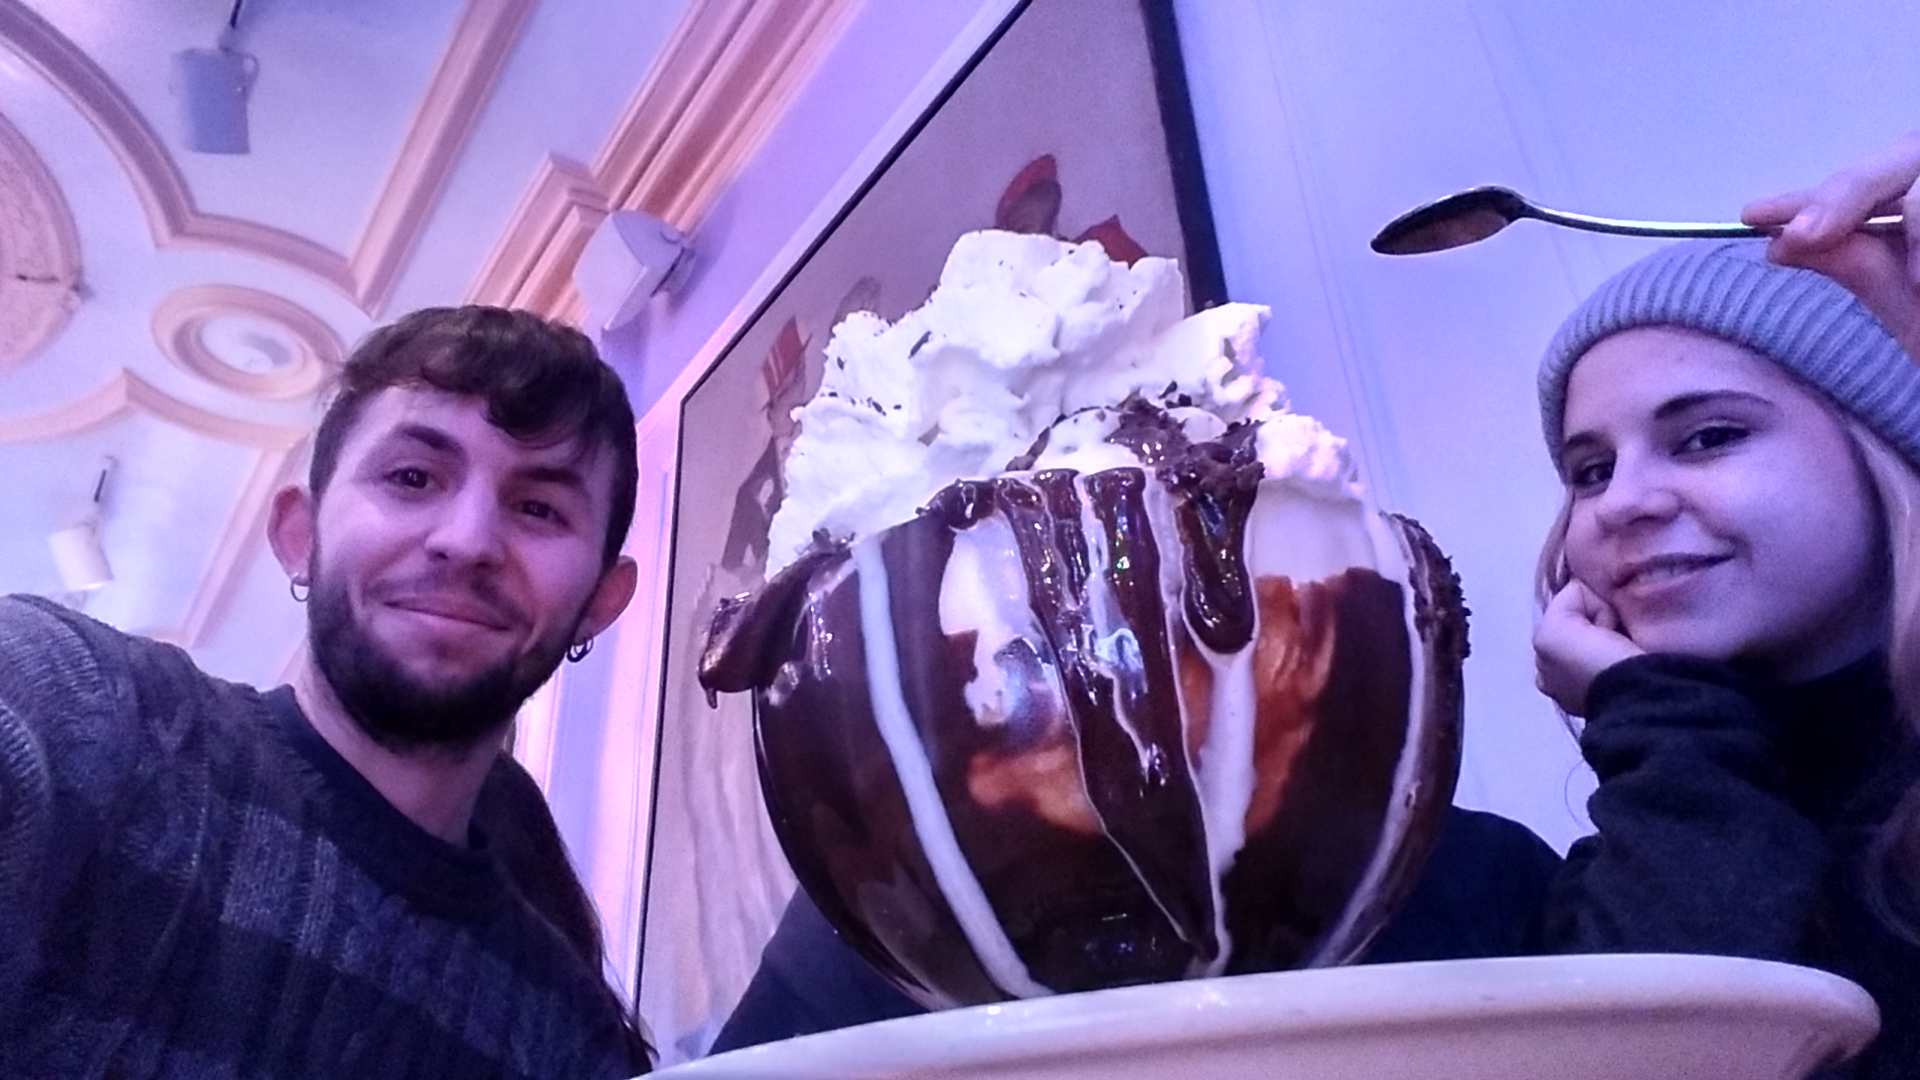
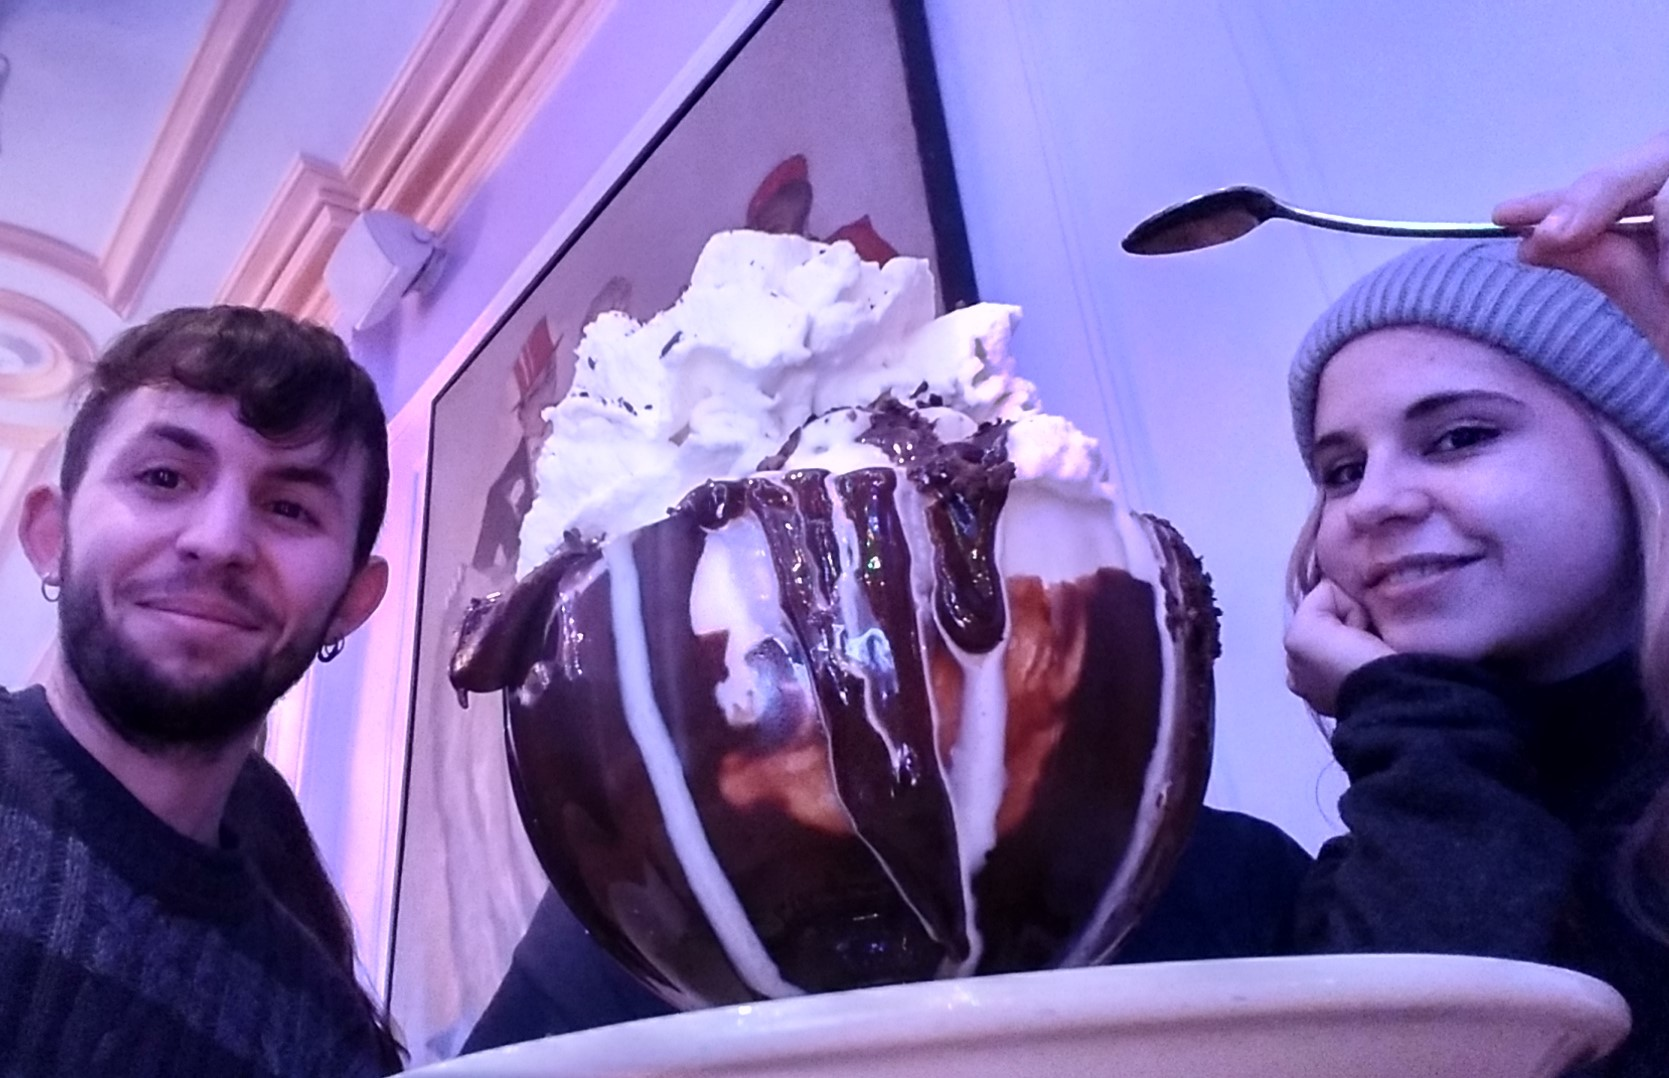
11th

diff --git a/index.html b/index.html
@@ -229,12 +229,12 @@
                 </div>
                 <div class="col-sm-6 col-md-4">
                     <div class="thumbnail">
-                        <a class="lightbox" href="">
-                            <img src="images/bckgnd.jpg" alt="Traffic">
+                        <a class="lightbox" href="images/11-11.jpg">
+                            <img src="images/11-11.jpg" alt="Traffic">
                         </a>
                         <div class="caption">
                             <h3>11 Novembre 2018</h3>
-                            <p></p>
+                            <p>Miss YOU were here.</p>
                         </div>
                     </div>
                 </div>
